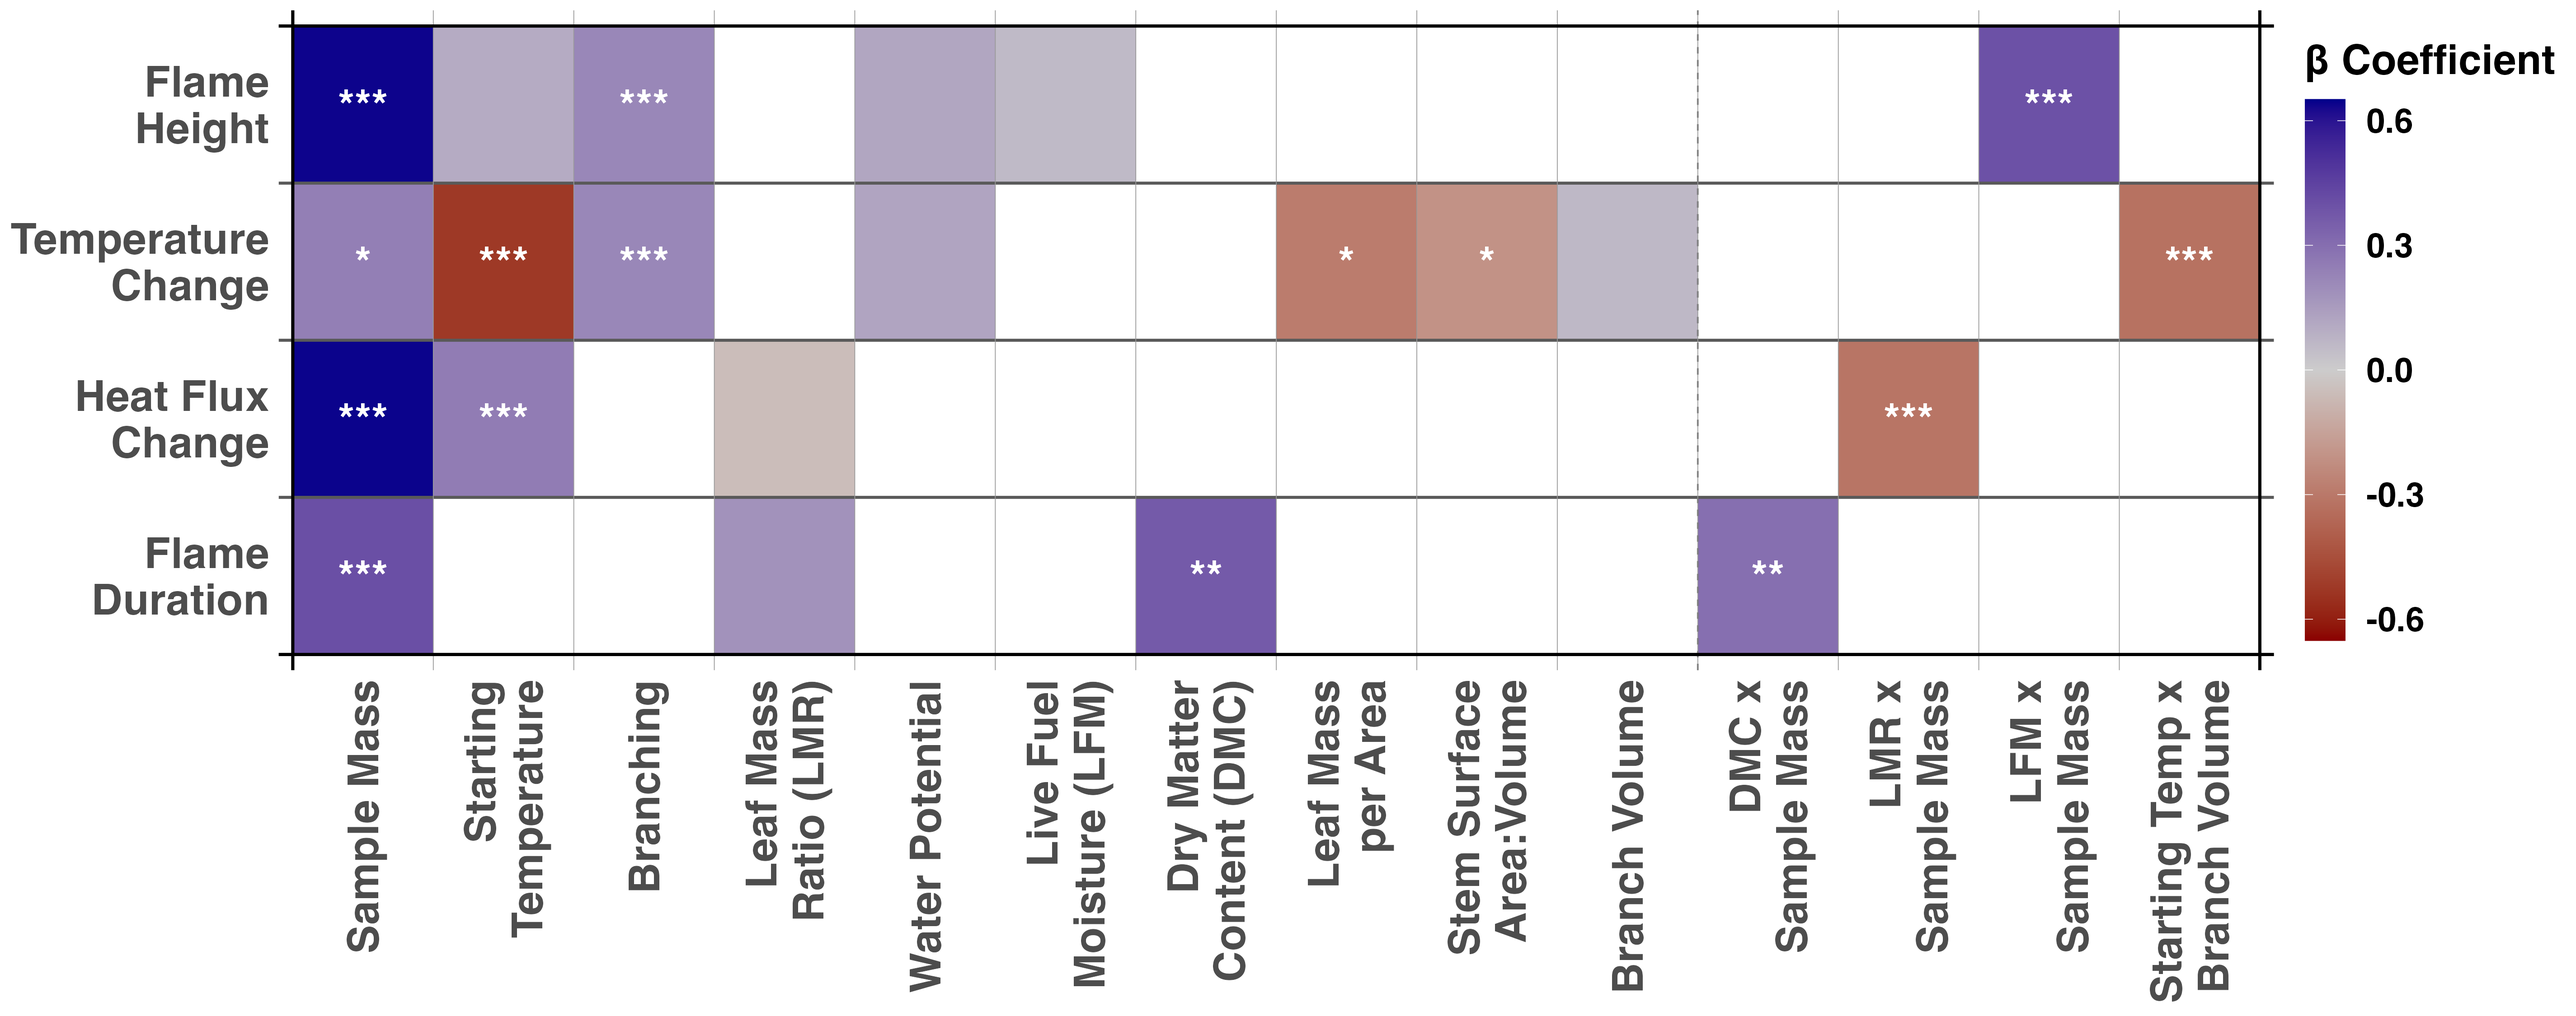
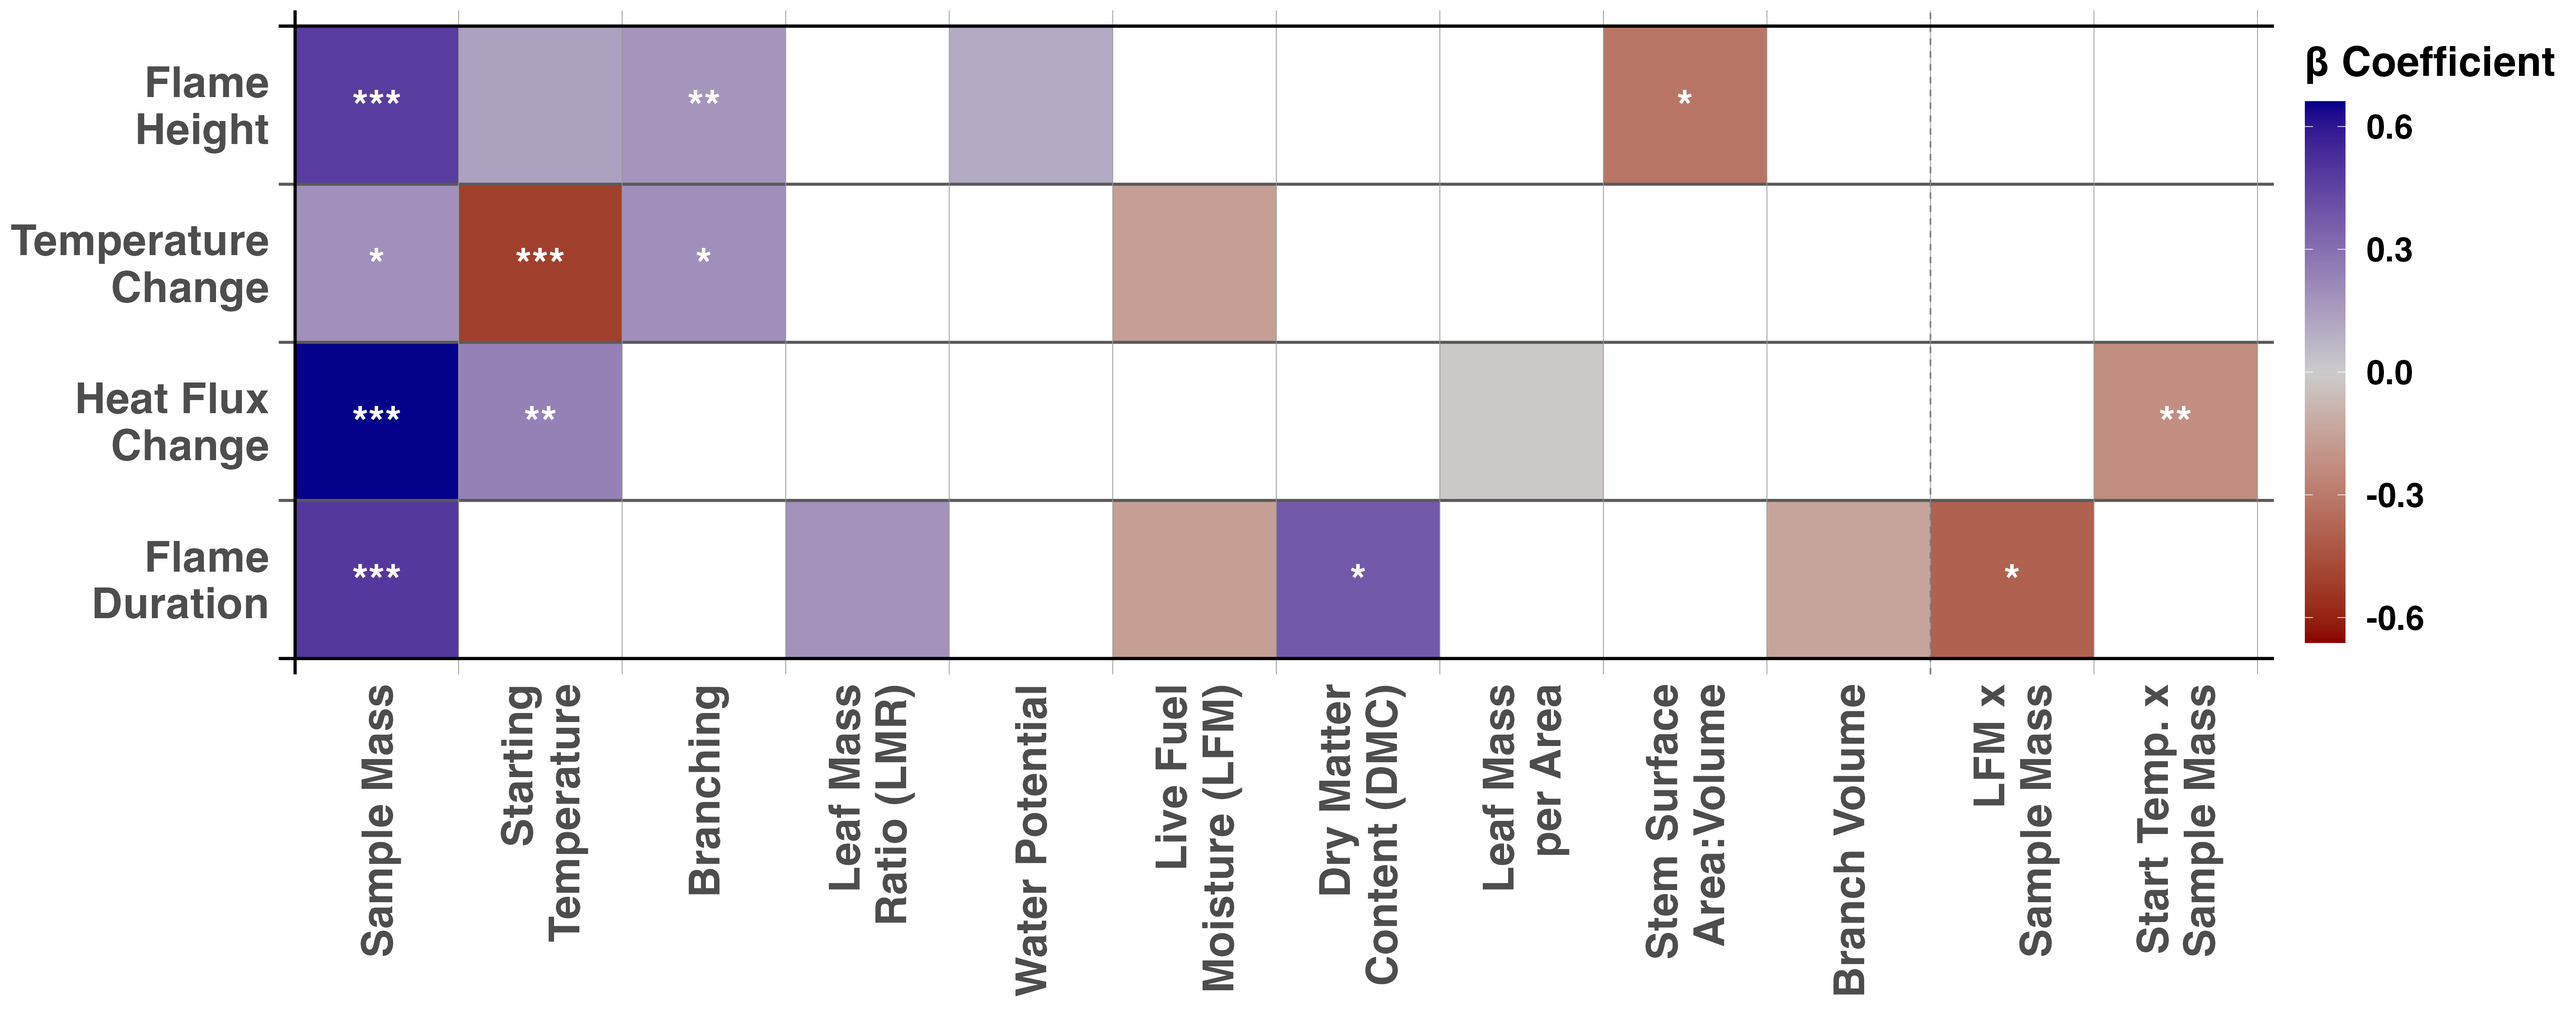
MEM figure

diff --git a/figures/MEM_2/All_Top_MEM_Final_Selection.html b/figures/MEM_2/All_Top_MEM_Final_Selection.html
@@ -16,107 +16,93 @@
 </tr>
 <tr>
 <td style=" padding:0.2cm; text-align:left; vertical-align:top; text-align:left; ">(Intercept)</td>
-<td style=" padding:0.2cm; text-align:left; vertical-align:top; text-align:center;  ">0.131 <sup></sup></td>
-<td style=" padding:0.2cm; text-align:left; vertical-align:top; text-align:center;  ">&#45;0.123 <sup></sup></td>
-<td style=" padding:0.2cm; text-align:left; vertical-align:top; text-align:center;  ">&#45;0.049 <sup></sup></td>
-<td style=" padding:0.2cm; text-align:left; vertical-align:top; text-align:center;  ">&#45;0.234 <sup></sup></td>
+<td style=" padding:0.2cm; text-align:left; vertical-align:top; text-align:center;  ">0.032 <sup></sup></td>
+<td style=" padding:0.2cm; text-align:left; vertical-align:top; text-align:center;  ">&#45;0.101 <sup></sup></td>
+<td style=" padding:0.2cm; text-align:left; vertical-align:top; text-align:center;  ">0.021 <sup></sup></td>
+<td style=" padding:0.2cm; text-align:left; vertical-align:top; text-align:center;  ">&#45;0.144 <sup></sup></td>
 </tr>
 <tr>
 <td style=" padding:0.2cm; text-align:left; vertical-align:top; text-align:left; ">branch_volume</td>
 <td style=" padding:0.2cm; text-align:left; vertical-align:top; text-align:center;  "></td>
+<td style=" padding:0.2cm; text-align:left; vertical-align:top; text-align:center;  ">&#45;0.144 <sup></sup></td>
 <td style=" padding:0.2cm; text-align:left; vertical-align:top; text-align:center;  "></td>
-<td style=" padding:0.2cm; text-align:left; vertical-align:top; text-align:center;  ">0.063 <sup></sup></td>
-<td style=" padding:0.2cm; text-align:left; vertical-align:top; text-align:center;  "></td>
-</tr>
-<tr>
-<td style=" padding:0.2cm; text-align:left; vertical-align:top; text-align:left; ">branch_volume:start_temp</td>
-<td style=" padding:0.2cm; text-align:left; vertical-align:top; text-align:center;  "></td>
-<td style=" padding:0.2cm; text-align:left; vertical-align:top; text-align:center;  "></td>
-<td style=" padding:0.2cm; text-align:left; vertical-align:top; text-align:center;  ">&#45;0.326 <sup>***</sup></td>
 <td style=" padding:0.2cm; text-align:left; vertical-align:top; text-align:center;  "></td>
 </tr>
 <tr>
 <td style=" padding:0.2cm; text-align:left; vertical-align:top; text-align:left; ">branching</td>
-<td style=" padding:0.2cm; text-align:left; vertical-align:top; text-align:center;  ">0.218 <sup>**</sup></td>
+<td style=" padding:0.2cm; text-align:left; vertical-align:top; text-align:center;  ">0.174 <sup>**</sup></td>
 <td style=" padding:0.2cm; text-align:left; vertical-align:top; text-align:center;  "></td>
-<td style=" padding:0.2cm; text-align:left; vertical-align:top; text-align:center;  ">0.219 <sup>**</sup></td>
+<td style=" padding:0.2cm; text-align:left; vertical-align:top; text-align:center;  ">0.193 <sup>*</sup></td>
 <td style=" padding:0.2cm; text-align:left; vertical-align:top; text-align:center;  "></td>
 </tr>
 <tr>
 <td style=" padding:0.2cm; text-align:left; vertical-align:top; text-align:left; ">dmc</td>
 <td style=" padding:0.2cm; text-align:left; vertical-align:top; text-align:center;  "></td>
-<td style=" padding:0.2cm; text-align:left; vertical-align:top; text-align:center;  ">0.368 <sup>*</sup></td>
+<td style=" padding:0.2cm; text-align:left; vertical-align:top; text-align:center;  ">0.377 <sup>*</sup></td>
 <td style=" padding:0.2cm; text-align:left; vertical-align:top; text-align:center;  "></td>
 <td style=" padding:0.2cm; text-align:left; vertical-align:top; text-align:center;  "></td>
 </tr>
 <tr>
 <td style=" padding:0.2cm; text-align:left; vertical-align:top; text-align:left; ">leaf_mass_ratio</td>
 <td style=" padding:0.2cm; text-align:left; vertical-align:top; text-align:center;  "></td>
-<td style=" padding:0.2cm; text-align:left; vertical-align:top; text-align:center;  ">0.182 <sup></sup></td>
+<td style=" padding:0.2cm; text-align:left; vertical-align:top; text-align:center;  ">0.186 <sup></sup></td>
 <td style=" padding:0.2cm; text-align:left; vertical-align:top; text-align:center;  "></td>
-<td style=" padding:0.2cm; text-align:left; vertical-align:top; text-align:center;  ">&#45;0.052 <sup></sup></td>
+<td style=" padding:0.2cm; text-align:left; vertical-align:top; text-align:center;  "></td>
 </tr>
 <tr>
 <td style=" padding:0.2cm; text-align:left; vertical-align:top; text-align:left; ">lfm</td>
-<td style=" padding:0.2cm; text-align:left; vertical-align:top; text-align:center;  ">0.057 <sup></sup></td>
 <td style=" padding:0.2cm; text-align:left; vertical-align:top; text-align:center;  "></td>
-<td style=" padding:0.2cm; text-align:left; vertical-align:top; text-align:center;  "></td>
+<td style=" padding:0.2cm; text-align:left; vertical-align:top; text-align:center;  ">&#45;0.168 <sup></sup></td>
+<td style=" padding:0.2cm; text-align:left; vertical-align:top; text-align:center;  ">&#45;0.167 <sup></sup></td>
 <td style=" padding:0.2cm; text-align:left; vertical-align:top; text-align:center;  "></td>
 </tr>
 <tr>
 <td style=" padding:0.2cm; text-align:left; vertical-align:top; text-align:left; ">LMA</td>
 <td style=" padding:0.2cm; text-align:left; vertical-align:top; text-align:center;  "></td>
 <td style=" padding:0.2cm; text-align:left; vertical-align:top; text-align:center;  "></td>
-<td style=" padding:0.2cm; text-align:left; vertical-align:top; text-align:center;  ">&#45;0.288 <sup></sup></td>
 <td style=" padding:0.2cm; text-align:left; vertical-align:top; text-align:center;  "></td>
+<td style=" padding:0.2cm; text-align:left; vertical-align:top; text-align:center;  ">&#45;0.014 <sup></sup></td>
 </tr>
 <tr>
 <td style=" padding:0.2cm; text-align:left; vertical-align:top; text-align:left; ">mpa</td>
-<td style=" padding:0.2cm; text-align:left; vertical-align:top; text-align:center;  ">0.119 <sup></sup></td>
+<td style=" padding:0.2cm; text-align:left; vertical-align:top; text-align:center;  ">0.109 <sup></sup></td>
 <td style=" padding:0.2cm; text-align:left; vertical-align:top; text-align:center;  "></td>
-<td style=" padding:0.2cm; text-align:left; vertical-align:top; text-align:center;  ">0.124 <sup></sup></td>
+<td style=" padding:0.2cm; text-align:left; vertical-align:top; text-align:center;  "></td>
 <td style=" padding:0.2cm; text-align:left; vertical-align:top; text-align:center;  "></td>
 </tr>
 <tr>
 <td style=" padding:0.2cm; text-align:left; vertical-align:top; text-align:left; ">sample_wt</td>
-<td style=" padding:0.2cm; text-align:left; vertical-align:top; text-align:center;  ">0.640 <sup>***</sup></td>
-<td style=" padding:0.2cm; text-align:left; vertical-align:top; text-align:center;  ">0.404 <sup>***</sup></td>
-<td style=" padding:0.2cm; text-align:left; vertical-align:top; text-align:center;  ">0.244 <sup>*</sup></td>
-<td style=" padding:0.2cm; text-align:left; vertical-align:top; text-align:center;  ">0.642 <sup>***</sup></td>
-</tr>
-<tr>
-<td style=" padding:0.2cm; text-align:left; vertical-align:top; text-align:left; ">sample_wt:dmc</td>
-<td style=" padding:0.2cm; text-align:left; vertical-align:top; text-align:center;  "></td>
-<td style=" padding:0.2cm; text-align:left; vertical-align:top; text-align:center;  ">0.297 <sup>**</sup></td>
-<td style=" padding:0.2cm; text-align:left; vertical-align:top; text-align:center;  "></td>
-<td style=" padding:0.2cm; text-align:left; vertical-align:top; text-align:center;  "></td>
-</tr>
-<tr>
-<td style=" padding:0.2cm; text-align:left; vertical-align:top; text-align:left; ">sample_wt:leaf_mass_ratio</td>
-<td style=" padding:0.2cm; text-align:left; vertical-align:top; text-align:center;  "></td>
-<td style=" padding:0.2cm; text-align:left; vertical-align:top; text-align:center;  "></td>
-<td style=" padding:0.2cm; text-align:left; vertical-align:top; text-align:center;  "></td>
-<td style=" padding:0.2cm; text-align:left; vertical-align:top; text-align:center;  ">&#45;0.315 <sup>***</sup></td>
+<td style=" padding:0.2cm; text-align:left; vertical-align:top; text-align:center;  ">0.475 <sup>***</sup></td>
+<td style=" padding:0.2cm; text-align:left; vertical-align:top; text-align:center;  ">0.489 <sup>***</sup></td>
+<td style=" padding:0.2cm; text-align:left; vertical-align:top; text-align:center;  ">0.192 <sup>*</sup></td>
+<td style=" padding:0.2cm; text-align:left; vertical-align:top; text-align:center;  ">0.657 <sup>***</sup></td>
 </tr>
 <tr>
 <td style=" padding:0.2cm; text-align:left; vertical-align:top; text-align:left; ">sample_wt:lfm</td>
-<td style=" padding:0.2cm; text-align:left; vertical-align:top; text-align:center;  ">0.398 <sup>*</sup></td>
+<td style=" padding:0.2cm; text-align:left; vertical-align:top; text-align:center;  "></td>
+<td style=" padding:0.2cm; text-align:left; vertical-align:top; text-align:center;  ">&#45;0.393 <sup>*</sup></td>
+<td style=" padding:0.2cm; text-align:left; vertical-align:top; text-align:center;  "></td>
+<td style=" padding:0.2cm; text-align:left; vertical-align:top; text-align:center;  "></td>
+</tr>
+<tr>
+<td style=" padding:0.2cm; text-align:left; vertical-align:top; text-align:left; ">sample_wt:start_temp</td>
 <td style=" padding:0.2cm; text-align:left; vertical-align:top; text-align:center;  "></td>
 <td style=" padding:0.2cm; text-align:left; vertical-align:top; text-align:center;  "></td>
 <td style=" padding:0.2cm; text-align:left; vertical-align:top; text-align:center;  "></td>
+<td style=" padding:0.2cm; text-align:left; vertical-align:top; text-align:center;  ">&#45;0.228 <sup>**</sup></td>
 </tr>
 <tr>
 <td style=" padding:0.2cm; text-align:left; vertical-align:top; text-align:left; ">start_temp</td>
-<td style=" padding:0.2cm; text-align:left; vertical-align:top; text-align:center;  ">0.101 <sup></sup></td>
+<td style=" padding:0.2cm; text-align:left; vertical-align:top; text-align:center;  ">0.137 <sup></sup></td>
 <td style=" padding:0.2cm; text-align:left; vertical-align:top; text-align:center;  "></td>
-<td style=" padding:0.2cm; text-align:left; vertical-align:top; text-align:center;  ">&#45;0.525 <sup>***</sup></td>
-<td style=" padding:0.2cm; text-align:left; vertical-align:top; text-align:center;  ">0.254 <sup>***</sup></td>
+<td style=" padding:0.2cm; text-align:left; vertical-align:top; text-align:center;  ">&#45;0.511 <sup>***</sup></td>
+<td style=" padding:0.2cm; text-align:left; vertical-align:top; text-align:center;  ">0.241 <sup>**</sup></td>
 </tr>
 <tr>
 <td style=" padding:0.2cm; text-align:left; vertical-align:top; text-align:left; ">stem_sav</td>
+<td style=" padding:0.2cm; text-align:left; vertical-align:top; text-align:center;  ">&#45;0.319 <sup>*</sup></td>
 <td style=" padding:0.2cm; text-align:left; vertical-align:top; text-align:center;  "></td>
 <td style=" padding:0.2cm; text-align:left; vertical-align:top; text-align:center;  "></td>
-<td style=" padding:0.2cm; text-align:left; vertical-align:top; text-align:center;  ">&#45;0.209 <sup></sup></td>
 <td style=" padding:0.2cm; text-align:left; vertical-align:top; text-align:center;  "></td>
 </tr>
 <tr>
@@ -125,9 +111,9 @@
 
 <tr>
 <td style=" padding:0.2cm; text-align:left; vertical-align:top; text-align:left; padding-top:0.1cm; padding-bottom:0.1cm;">&sigma;<sup>2</sup></td>
-<td style=" padding:0.2cm; text-align:left; vertical-align:top; padding-top:0.1cm; padding-bottom:0.1cm; text-align:left;" colspan="1">0.24</td>
-<td style=" padding:0.2cm; text-align:left; vertical-align:top; padding-top:0.1cm; padding-bottom:0.1cm; text-align:left;" colspan="1">0.60</td>
-<td style=" padding:0.2cm; text-align:left; vertical-align:top; padding-top:0.1cm; padding-bottom:0.1cm; text-align:left;" colspan="1">0.36</td>
+<td style=" padding:0.2cm; text-align:left; vertical-align:top; padding-top:0.1cm; padding-bottom:0.1cm; text-align:left;" colspan="1">0.25</td>
+<td style=" padding:0.2cm; text-align:left; vertical-align:top; padding-top:0.1cm; padding-bottom:0.1cm; text-align:left;" colspan="1">0.62</td>
+<td style=" padding:0.2cm; text-align:left; vertical-align:top; padding-top:0.1cm; padding-bottom:0.1cm; text-align:left;" colspan="1">0.42</td>
 <td style=" padding:0.2cm; text-align:left; vertical-align:top; padding-top:0.1cm; padding-bottom:0.1cm; text-align:left;" colspan="1">0.23</td>
 </tr>
 
@@ -136,14 +122,14 @@
 <td style=" padding:0.2cm; text-align:left; vertical-align:top; padding-top:0.1cm; padding-bottom:0.1cm; text-align:left;" colspan="1">0.19 <sub>plant_id:species</sub></td>
 <td style=" padding:0.2cm; text-align:left; vertical-align:top; padding-top:0.1cm; padding-bottom:0.1cm; text-align:left;" colspan="1">0.00 <sub>plant_id:species</sub></td>
 <td style=" padding:0.2cm; text-align:left; vertical-align:top; padding-top:0.1cm; padding-bottom:0.1cm; text-align:left;" colspan="1">0.10 <sub>plant_id:species</sub></td>
-<td style=" padding:0.2cm; text-align:left; vertical-align:top; padding-top:0.1cm; padding-bottom:0.1cm; text-align:left;" colspan="1">0.33 <sub>plant_id:species</sub></td>
+<td style=" padding:0.2cm; text-align:left; vertical-align:top; padding-top:0.1cm; padding-bottom:0.1cm; text-align:left;" colspan="1">0.41 <sub>plant_id:species</sub></td>
 
 <tr>
 <td style=" padding:0.2cm; text-align:left; vertical-align:top; text-align:left; padding-top:0.1cm; padding-bottom:0.1cm;"></td>
 <td style=" padding:0.2cm; text-align:left; vertical-align:top; padding-top:0.1cm; padding-bottom:0.1cm; text-align:left;" colspan="1">0.00 <sub>species</sub></td>
-<td style=" padding:0.2cm; text-align:left; vertical-align:top; padding-top:0.1cm; padding-bottom:0.1cm; text-align:left;" colspan="1">0.16 <sub>species</sub></td>
+<td style=" padding:0.2cm; text-align:left; vertical-align:top; padding-top:0.1cm; padding-bottom:0.1cm; text-align:left;" colspan="1">0.10 <sub>species</sub></td>
 <td style=" padding:0.2cm; text-align:left; vertical-align:top; padding-top:0.1cm; padding-bottom:0.1cm; text-align:left;" colspan="1">0.00 <sub>species</sub></td>
-<td style=" padding:0.2cm; text-align:left; vertical-align:top; padding-top:0.1cm; padding-bottom:0.1cm; text-align:left;" colspan="1">0.05 <sub>species</sub></td>
+<td style=" padding:0.2cm; text-align:left; vertical-align:top; padding-top:0.1cm; padding-bottom:0.1cm; text-align:left;" colspan="1">0.01 <sub>species</sub></td>
 
 <tr>
 <td style=" padding:0.2cm; text-align:left; vertical-align:top; text-align:left; padding-top:0.1cm; padding-bottom:0.1cm;">N</td>
@@ -167,17 +153,17 @@
 </tr>
 <tr>
 <td style=" padding:0.2cm; text-align:left; vertical-align:top; text-align:left; padding-top:0.1cm; padding-bottom:0.1cm;">Marginal R<sup>2</sup> / Conditional R<sup>2</sup></td>
-<td style=" padding:0.2cm; text-align:left; vertical-align:top; padding-top:0.1cm; padding-bottom:0.1cm; text-align:left;" colspan="1">0.703 / NA</td>
-<td style=" padding:0.2cm; text-align:left; vertical-align:top; padding-top:0.1cm; padding-bottom:0.1cm; text-align:left;" colspan="1">0.329 / NA</td>
-<td style=" padding:0.2cm; text-align:left; vertical-align:top; padding-top:0.1cm; padding-bottom:0.1cm; text-align:left;" colspan="1">0.606 / NA</td>
-<td style=" padding:0.2cm; text-align:left; vertical-align:top; padding-top:0.1cm; padding-bottom:0.1cm; text-align:left;" colspan="1">0.474 / 0.803</td>
+<td style=" padding:0.2cm; text-align:left; vertical-align:top; padding-top:0.1cm; padding-bottom:0.1cm; text-align:left;" colspan="1">0.563 / 0.755</td>
+<td style=" padding:0.2cm; text-align:left; vertical-align:top; padding-top:0.1cm; padding-bottom:0.1cm; text-align:left;" colspan="1">0.342 / NA</td>
+<td style=" padding:0.2cm; text-align:left; vertical-align:top; padding-top:0.1cm; padding-bottom:0.1cm; text-align:left;" colspan="1">0.528 / NA</td>
+<td style=" padding:0.2cm; text-align:left; vertical-align:top; padding-top:0.1cm; padding-bottom:0.1cm; text-align:left;" colspan="1">0.444 / 0.806</td>
 </tr>
 <tr>
 <td style=" padding:0.2cm; text-align:left; vertical-align:top; text-align:left; padding-top:0.1cm; padding-bottom:0.1cm;">AIC</td>
-<td style=" padding:0.2cm; text-align:left; vertical-align:top; padding-top:0.1cm; padding-bottom:0.1cm; text-align:left;" colspan="1">314.686</td>
-<td style=" padding:0.2cm; text-align:left; vertical-align:top; padding-top:0.1cm; padding-bottom:0.1cm; text-align:left;" colspan="1">400.358</td>
-<td style=" padding:0.2cm; text-align:left; vertical-align:top; padding-top:0.1cm; padding-bottom:0.1cm; text-align:left;" colspan="1">359.822</td>
-<td style=" padding:0.2cm; text-align:left; vertical-align:top; padding-top:0.1cm; padding-bottom:0.1cm; text-align:left;" colspan="1">324.672</td>
+<td style=" padding:0.2cm; text-align:left; vertical-align:top; padding-top:0.1cm; padding-bottom:0.1cm; text-align:left;" colspan="1">316.352</td>
+<td style=" padding:0.2cm; text-align:left; vertical-align:top; padding-top:0.1cm; padding-bottom:0.1cm; text-align:left;" colspan="1">409.031</td>
+<td style=" padding:0.2cm; text-align:left; vertical-align:top; padding-top:0.1cm; padding-bottom:0.1cm; text-align:left;" colspan="1">365.516</td>
+<td style=" padding:0.2cm; text-align:left; vertical-align:top; padding-top:0.1cm; padding-bottom:0.1cm; text-align:left;" colspan="1">328.687</td>
 </tr>
 <tr>
 <td colspan="5" style="font-style:italic; border-top:double black; text-align:right;">* p&lt;0.05&nbsp;&nbsp;&nbsp;** p&lt;0.01&nbsp;&nbsp;&nbsp;*** p&lt;0.001</td>
